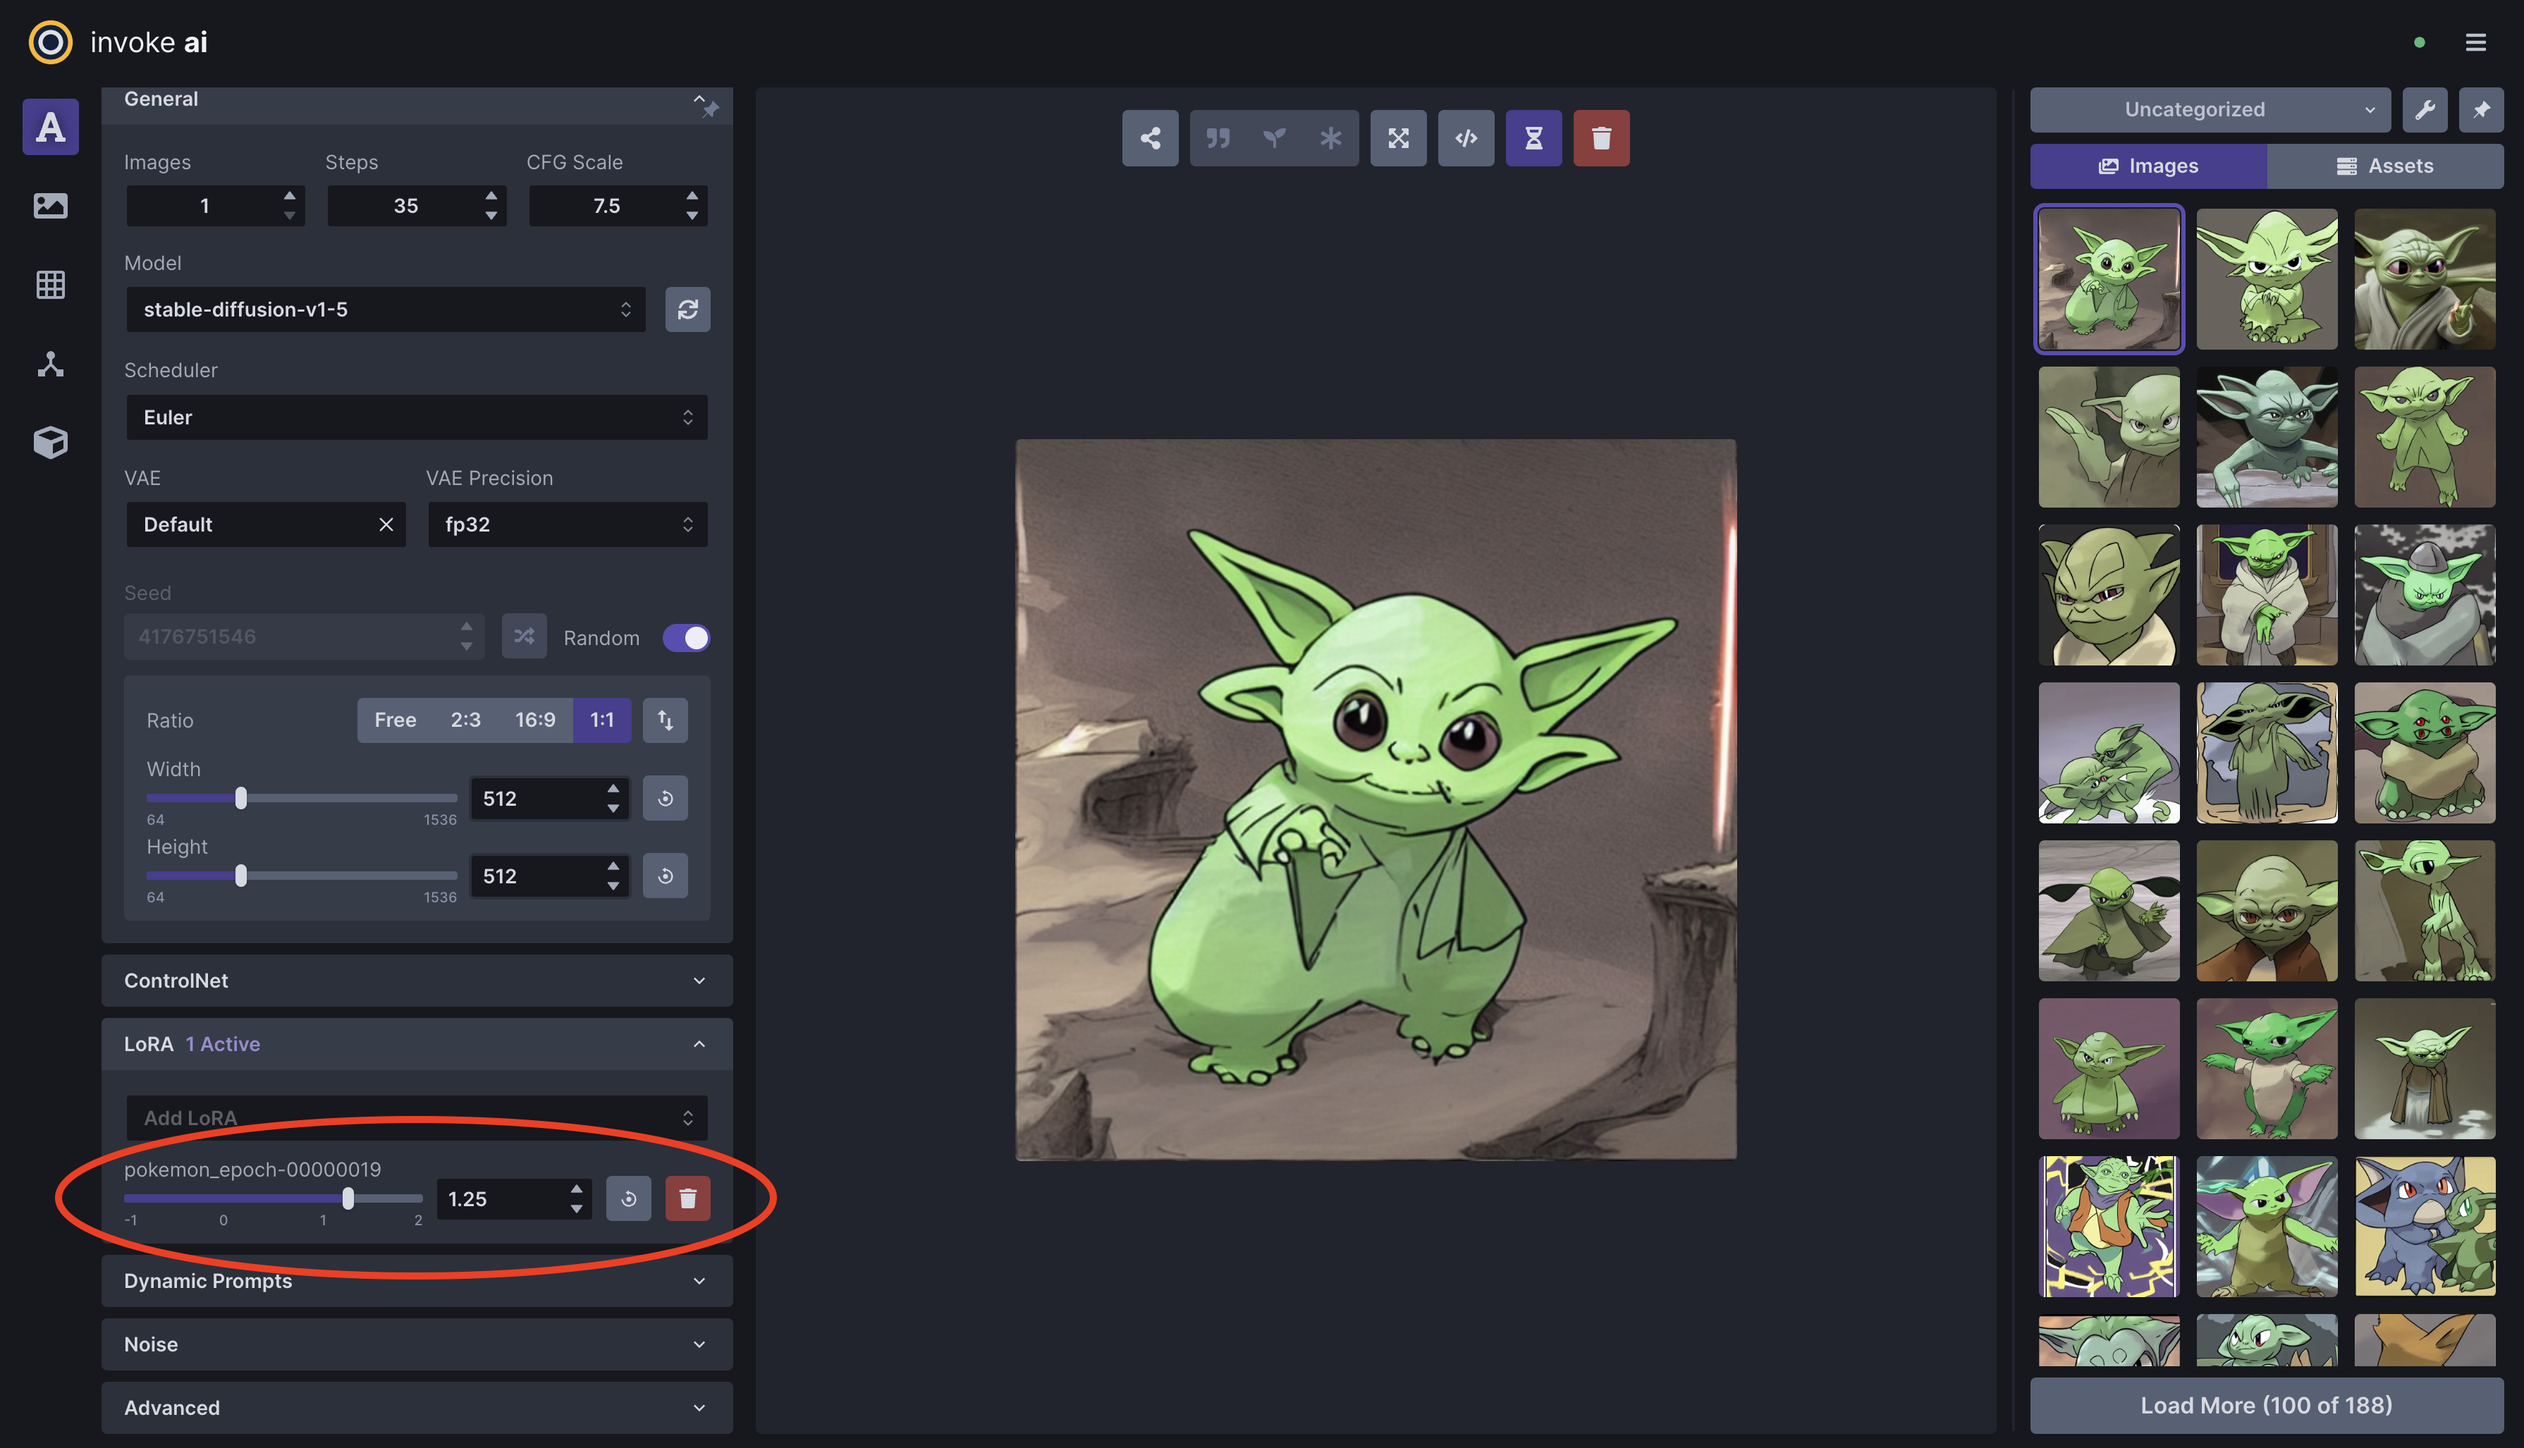
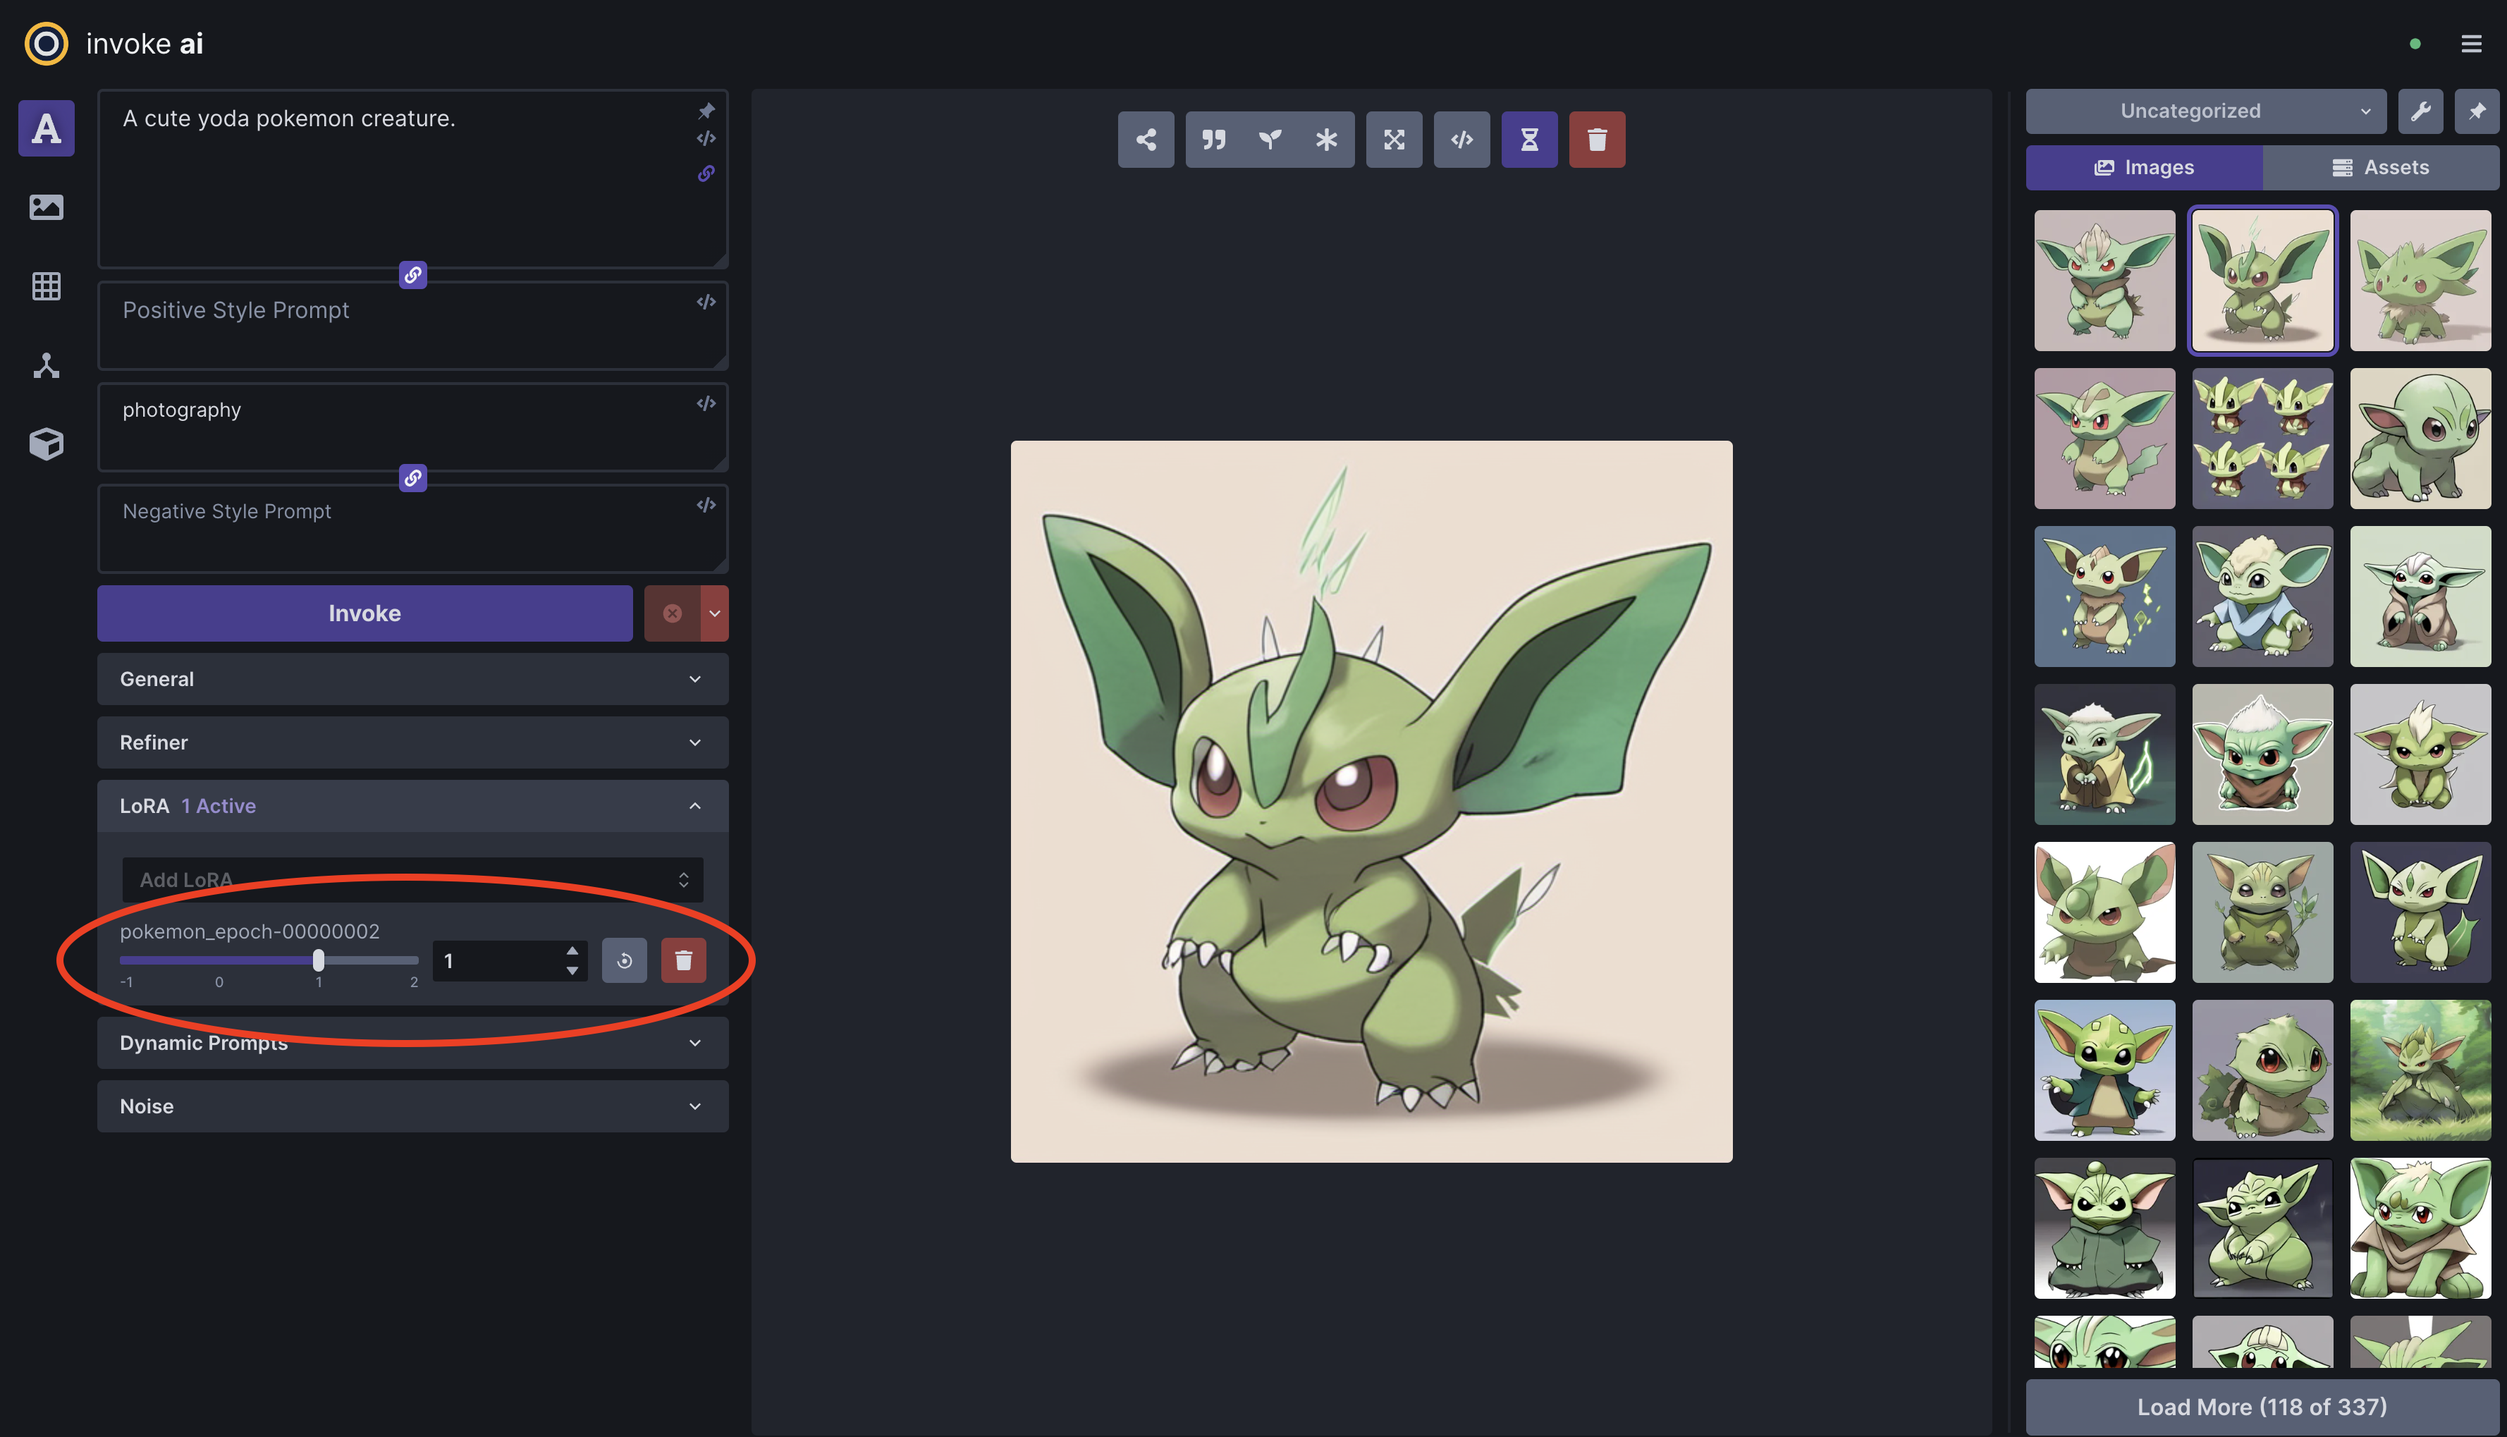
Update InvokeAI screenshot in README.

diff --git a/README.md b/README.md
@@ -53,17 +53,17 @@ invoke-finetune-lora-sdxl --cfg-file configs/finetune_lora_sdxl_pokemon_1x8gb_ex
 ![Screenshot of the Tensorboard UI showing validation images.](images/tensorboard_val_images_screenshot.png)
 *Validation images in the Tensorboard UI.*
 
-4. Select a checkpoint based on the quality of the generated images. In this short training run, there are only 3 checkpoints to choose from. As an example, we'll use the **Epoch 3** checkpoint.
+4. Select a checkpoint based on the quality of the generated images. In this short training run, there are only 3 checkpoints to choose from. As an example, we'll use the **Epoch 2** checkpoint.
 5. If you haven't already, setup [InvokeAI](https://github.com/invoke-ai/InvokeAI) by following its documentation.
 6. Copy your selected LoRA checkpoint into your `${INVOKEAI_ROOT}/autoimport/lora` directory. For example:
 ```bash
 # Note: You will have to replace the timestamp in the checkpoint path.
-cp output/1691088769.5694647/checkpoint_epoch-00000003.safetensors ${INVOKEAI_ROOT}/autoimport/lora/pokemon_epoch-00000003.safetensors
+cp output/1691088769.5694647/checkpoint_epoch-00000002.safetensors ${INVOKEAI_ROOT}/autoimport/lora/pokemon_epoch-00000002.safetensors
 ```
 7. You can now use your trained Pokemon LoRA in the InvokeAI UI! 🎉
 
-![Screenshot of the InvokeAI UI with an example of a Yoda pokemon generated using a Pokemon LoRA.](images/invokeai_yoda_pokemon_lora.png)
-*Example image generated with the prompt "yoda" and Pokemon LoRA.*
+![Screenshot of the InvokeAI UI with an example of a Yoda pokemon generated using a Pokemon LoRA model.](images/invokeai_yoda_pokemon_lora.png)
+*Example image generated with the prompt "A cute yoda pokemon creature." and Pokemon LoRA.*
 
 ### Custom Datasets
 
